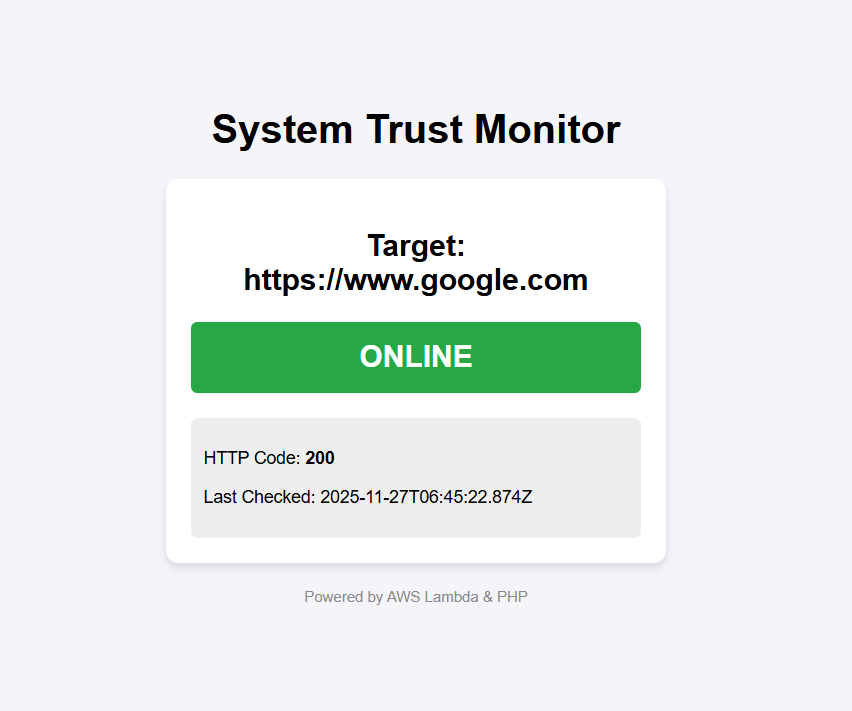
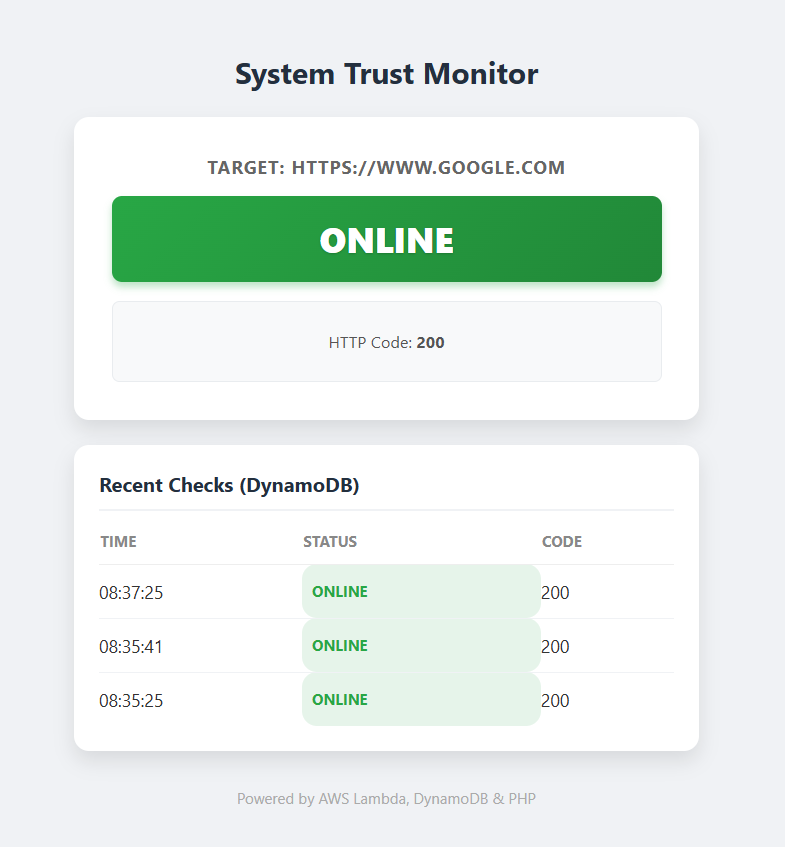
Fixed Dashboard Aesthetics

diff --git a/frontend/style.css b/frontend/style.css
@@ -1,7 +1,145 @@
-/* History Table Styling */
-.history-section { margin-top: 30px; text-align: left; }
-table { width: 100%; border-collapse: collapse; background: white; border-radius: 8px; overflow: hidden; }
-th, td { padding: 10px; border-bottom: 1px solid #eee; text-align: left; font-size: 14px; }
-th { background-color: #f8f9fa; font-weight: bold; }
-.text-green { color: #28a745; font-weight: bold; }
-.text-red { color: #dc3545; font-weight: bold; }
+/* RESET & BASICS */
+body {
+    font-family: -apple-system, BlinkMacSystemFont, "Segoe UI", Roboto, Helvetica, Arial, sans-serif;
+    background-color: #f0f2f5;
+    display: flex;
+    justify-content: center;
+    align-items: flex-start; /* Aligns to top so it doesn't get cut off */
+    min-height: 100vh;
+    margin: 0;
+    padding: 40px 20px;
+    color: #333;
+}
+
+.container {
+    width: 100%;
+    max-width: 500px;
+    text-align: center;
+}
+
+h1 {
+    font-size: 24px;
+    margin-bottom: 20px;
+    color: #232f3e; /* AWS Dark Blue */
+}
+
+/* MAIN STATUS CARD */
+.card {
+    background: white;
+    padding: 30px;
+    border-radius: 12px;
+    box-shadow: 0 8px 16px rgba(0,0,0,0.1);
+    margin-bottom: 20px;
+    transition: transform 0.2s;
+}
+
+.card:hover {
+    transform: translateY(-2px);
+}
+
+h2 {
+    font-size: 14px;
+    color: #666;
+    text-transform: uppercase;
+    letter-spacing: 1px;
+    margin: 0 0 10px 0;
+}
+
+/* STATUS INDICATORS */
+.indicator {
+    font-size: 28px;
+    font-weight: 800;
+    padding: 15px;
+    border-radius: 8px;
+    color: white;
+    margin: 15px 0;
+    text-shadow: 0 1px 2px rgba(0,0,0,0.2);
+}
+
+.status-green {
+    background: linear-gradient(135deg, #28a745, #218838);
+    box-shadow: 0 4px 6px rgba(40, 167, 69, 0.3);
+}
+
+.status-red {
+    background: linear-gradient(135deg, #dc3545, #c82333);
+    box-shadow: 0 4px 6px rgba(220, 53, 69, 0.3);
+}
+
+.details {
+    background: #f8f9fa;
+    padding: 10px;
+    border-radius: 6px;
+    font-size: 13px;
+    color: #555;
+    border: 1px solid #e9ecef;
+}
+
+/* HISTORY TABLE SECTION */
+.history-section {
+    background: white;
+    padding: 20px;
+    border-radius: 12px;
+    box-shadow: 0 8px 16px rgba(0,0,0,0.1);
+}
+
+.history-section h3 {
+    margin-top: 0;
+    font-size: 16px;
+    color: #232f3e;
+    border-bottom: 2px solid #f0f2f5;
+    padding-bottom: 10px;
+    margin-bottom: 15px;
+    text-align: left;
+}
+
+table {
+    width: 100%;
+    border-collapse: collapse;
+}
+
+th {
+    text-align: left;
+    font-size: 12px;
+    color: #888;
+    text-transform: uppercase;
+    padding-bottom: 10px;
+    border-bottom: 1px solid #eee;
+}
+
+td {
+    padding: 12px 0;
+    border-bottom: 1px solid #f0f2f5;
+    font-size: 14px;
+    text-align: left;
+}
+
+tr:last-child td {
+    border-bottom: none;
+}
+
+/* TABLE STATUS BADGES */
+.text-green {
+    color: #28a745;
+    font-weight: bold;
+    background: #e6f4ea;
+    padding: 4px 8px;
+    border-radius: 12px;
+    font-size: 12px;
+}
+
+.text-red {
+    color: #dc3545;
+    font-weight: bold;
+    background: #fce8e6;
+    padding: 4px 8px;
+    border-radius: 12px;
+    font-size: 12px;
+}
+
+/* FOOTER */
+.footer {
+    margin-top: 30px;
+    color: #aaa;
+    font-size: 12px;
+}
